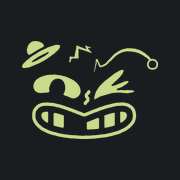
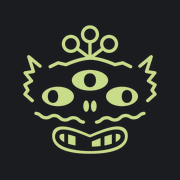
Replace Garbo with the new three-eyed drawing
New mask in art/garbo.png, new favicons and home-screen icons, and a
hand-drawn 40×30 DMD bitmap that winks his left eye.

Claude-Session: https://claude.ai/code/session_01UsLQRnPeR31dTeQKGYy7NB

Changed region(s): [[0.1111, 0.1389, 0.8889, 0.8611]]

diff --git a/index.html b/index.html
@@ -385,10 +385,10 @@ h1 .fx > .fx-t { color: var(--lime); -webkit-text-stroke: 0; }
 @media (prefers-reduced-motion: reduce) { .dmd-frame.abduct { animation: none; } }
 /* Garbo's signature in the footer: the owner's drawing, recoloured through a mask */
 .garbo-sig { display: flex; width: fit-content; align-items: center; gap: 16px; background: var(--bg); padding: 6px 10px 6px 0; }
-.garbo-art { flex: none; width: 92px; aspect-ratio: 754 / 562; background: currentColor; -webkit-mask: url("art/garbo.png") center / contain no-repeat; mask: url("art/garbo.png") center / contain no-repeat; }
+.garbo-art { flex: none; width: 76px; aspect-ratio: 1287 / 1240; background: currentColor; -webkit-mask: url("art/garbo.png") center / contain no-repeat; mask: url("art/garbo.png") center / contain no-repeat; }
 /* Garbo says: his drawing on the left, the line in a speech bubble pointing at him */
 .says { display: flex; align-items: center; gap: 44px; margin: 0 0 34px; }
-.says > .garbo-art { width: clamp(84px, 11vw, 130px); color: var(--lime); flex: none; }
+.says > .garbo-art { width: clamp(76px, 9vw, 112px); color: var(--lime); flex: none; }
 .thesis.bubble { position: relative; flex: 1; margin: 0; border: 0; background: none; padding: 26px 34px 30px; transform: rotate(-0.6deg); z-index: 0; }
 /* hand-drawn bubble: a wobbly outline with a cut-paper shadow that "boils" between two drawings */
 .bub { position: absolute; z-index: -1; overflow: visible; pointer-events: none; filter: drop-shadow(6px 7px 0 #4d5a34); }
@@ -405,7 +405,7 @@ h1 .fx > .fx-t { color: var(--lime); -webkit-text-stroke: 0; }
 @keyframes boil-b { 0% { visibility: hidden; } 50% { visibility: visible; } }
 @media (max-width: 600px) {
   .says { flex-direction: column-reverse; align-items: flex-start; gap: 30px; }
-  .says > .garbo-art { width: 86px; margin-left: 18px; }
+  .says > .garbo-art { width: 78px; margin-left: 22px; }
   .bub-left { display: none; } .bub-bottom { display: block; }
   .bub path { stroke-width: 2px; }
   .thesis.bubble { padding: 26px 26px 30px; transform: none; text-align: center; text-wrap: balance; font-size: 15px; line-height: 1.6; }
@@ -578,7 +578,7 @@ ol.plan li::before { color: var(--fg-dim); }
     <a class="gl-cta" href="#glossary"><span class="mono">Pinball glossary</span><span>What a VUK, a cradle or a playfield multiplier is, in plain language.</span><span class="arr" aria-hidden="true">→</span></a>
     <p>Venue lineups come from <a href="https://pinballmap.com" target="_blank" rel="noopener">Pinball Map</a>, licensed CC BY-SA 4.0. Each venue page links to that venue’s own Pinball Map listing, which is the place to check hours and location. Community tips are summarized from <a href="https://app.matchplay.events/opdb/entries/G4do5/pintips" target="_blank" rel="noopener">PinTips on Match Play</a>. Strategy draws on Kineticist tutorials, The Pinball Primer, Pinball Rulesheets and the Tilt Forums archive; each machine page links its sources.</p>
     <p>Machine reports come from players using the guide, are anonymous, and may already be out of date. Not affiliated with any venue or operator.</p>
-    <p class="garbo-sig"><span class="garbo-art" role="img" aria-label="Garbo, winking"></span><span>Field notes of <b>Garbo</b>, a visitor who fell for pinball. Translated by <b>SAPO Studios</b>.</span></p>
+    <p class="garbo-sig"><span class="garbo-art" role="img" aria-label="Garbo"></span><span>Field notes of <b>Garbo</b>, a visitor who fell for pinball. Translated by <b>SAPO Studios</b>.</span></p>
   </div>
 </footer>
 
@@ -3017,8 +3017,7 @@ const F = {
   "\uE00A":"00100 01010 00100 01110 10101 00100 01010", "\uE00B":"11011 10001 00100 01110 00100 10001 11011"
 };
 /* Garbo, from the owner's drawing, redrawn dot by dot (56 x 30) with an open-eye and a wink frame. */
-const GARBO = {"open":["00000001110000000000000000000000000000000000000000000000","00000011111001110000000000010000000000000000000000000000","00000011111111110000000010100000000000000000000000000000","00000011111111100000000111000000000011111110000000000000","00000011111100000000011010000000011100000001110000000000","00001111110000000000111000000001100000000000001000000000","00111111000000000000110000000010000000000000000100000000","00111100000000000001000000000100000000000000000011100000","00000000000000000000000000000100000000000000000100010000","00000000000000000000000000001000000000000000000100010000","00000000000000000000000000000000000000000000000100010000","00000000001111111100000000000000000111111110000011100000","00000000011111111110000000000000001111111111000000000000","00000000111110011111000000000000011111001111100000000000","00000001111000000111100001000000111100000011110000000000","00000001110000000011100000100000111000000001110000000000","00000001110000000011100001000000111000000001110000000000","00000001100000000001100000100000110000000000110000000000","00000000000000000000000001000000000000000000000000000000","00000000000000000000000000000000000000000000000000000000","00000000111110000000000000000000000000000011110000000000","00000001000001111111111000000000111111111100001000000000","00000010000000000000000111111111000000000000000100000000","00000010001100111100000000000000000001111001100100000000","00000010001100111100000000000001111001111001100100000000","00000010001100111100000000000001111001111001100100000000","00000001001100111100000000000001111001111001101000000000","00000000100000000000000000000000000000000000010000000000","00000000011111111111111111111111111111111111100000000000","00000000000000000000000000000000000000000000000000000000"],
-  "wink":["00000001110000000000000000000000000000000000000000000000","00000011111001110000000000010000000000000000000000000000","00000011111111110000000010100000000000000000000000000000","00000011111111100000000111000000000011111110000000000000","00000011111100000000011010000000011100000001110000000000","00001111110000000000111000000001100000000000001000000000","00111111000000000000110000000010000000000000000100000000","00111100000000000001000000000100000000000000000011100000","00000000000000000000000000000100000000000000000100010000","00000000000000000000000000001000000000000000000100010000","00000000000000000000000000000000000000000000111100010000","00000000001111111100000000000000000000000011110011100000","00000000011111111110000000000000000000001111000000000000","00000000111110011111000000000000000000011100000000000000","00000001111000000111100001000000000001111000111000000000","00000001110000000011100000100000000011111111111000000000","00000001110000000011100001000000001111111111000000000000","00000001100000000001100000100000111111111111100000000000","00000000000000000000000001000001110111111111110000000000","00000000000000000000000000000000000000000000000000000000","00000000111110000000000000000000000000000011110000000000","00000001000001111111111000000000111111111100001000000000","00000010000000000000000111111111000000000000000100000000","00000010001100111100000000000000000001111001100100000000","00000010001100111100000000000001111001111001100100000000","00000010001100111100000000000001111001111001100100000000","00000001001100111100000000000001111001111001101000000000","00000000100000000000000000000000000000000000010000000000","00000000011111111111111111111111111111111111100000000000","00000000000000000000000000000000000000000000000000000000"]};
+const GARBO = {"open":["0000000000000000001111000000000000000000","0000000000000000010000100000000000000000","0000000000011000010000100001100000000000","0000000000100100001111000010010000000000","0000000000100100000110000010010000000000","0000000000011010000110000101100000000000","0001000000000001100110011000000000001000","0010000000000111111111111110000000000100","0100000011111000000000000001111100000010","0010001100000000111111110000000011000100","0001000000000001111001111000000000001000","0010000000000001111001111000000000000100","0100000000000000111111110000000000000010","0010001111111100000000000011111111000100","0001011111001110000000000111001111101000","0010011111001110000000000111001111100100","0100011111001110000000000111001111100010","0000001111111100001001000011111111000000","0000000000000000001001000000000000000000","0001100011000110000000000110001100011000","0000011100111001110000111001110011100000","0000000000000000000000000000000000000000","0000000000111110000000000111110000000000","0000000001000001110000111000001000000000","0000000001000000001111000000001000000000","0000000001001101100000011011001000000000","0000000001001101100000011011001000000000","0000000001000000000000000000001000000000","0000000000100000000000000000010000000000","0000000000011111111111111111100000000000"],"wink":["0000000000000000001111000000000000000000","0000000000000000010000100000000000000000","0000000000011000010000100001100000000000","0000000000100100001111000010010000000000","0000000000100100000110000010010000000000","0000000000011010000110000101100000000000","0001000000000001100110011000000000001000","0010000000000111111111111110000000000100","0100000011111000000000000001111100000010","0010001100000000111111110000000011000100","0001000000000001111001111000000000001000","0010000000000001111001111000000000000100","0100000000000000111111110000000000000010","0010001111111100000000000000000000000100","0001011111001110000000000000000000001000","0010011111001110000000000100000000100100","0100011111001110000000000011111111000010","0000001111111100001001000000000000000000","0000000000000000001001000000000000000000","0001100011000110000000000110001100011000","0000011100111001110000111001110011100000","0000000000000000000000000000000000000000","0000000000111110000000000111110000000000","0000000001000001110000111000001000000000","0000000001000000001111000000001000000000","0000000001001101100000011011001000000000","0000000001001101100000011011001000000000","0000000001000000000000000000001000000000","0000000000100000000000000000010000000000","0000000000011111111111111111100000000000"]};
 const ALIEN = Array.from({ length: 12 }, (_, i) => String.fromCharCode(0xE000 + i));
 const glyph = ch => (F[ch] || F[" "]).split(" ");
 /* Width in dots of text drawn at scale s with a gap of g dots between letters. */

diff --git a/CLAUDE.md b/CLAUDE.md
@@ -3,7 +3,7 @@
 Read this first. It replaces the original conversation, which isn't available to you.
 
 ## What this is
-**Renamed 2026-11-12: the site is now "Garbo's Guide to ABQ Pinball"** (repo and URL still say PinPlan). Garbo is the owner's alien character; the theme is a field guide he left behind in Albuquerque (no Roswell references: the owner didn't want the app to seem based there). Night-sky look, Instrument Serif titles, dot-matrix accents. Lime is reserved for Garbo, the onboard display and tappable things. `garbo-says.md` holds the owner's own one-thing line per game (overrides `thesis`); `art/garbo.png` is his drawing used as a mask.
+**Renamed 2026-11-12: the site is now "Garbo's Guide to ABQ Pinball"** (repo and URL still say PinPlan). Garbo is the owner's alien character; the theme is a field guide he left behind in Albuquerque (no Roswell references: the owner didn't want the app to seem based there). Night-sky look, Instrument Serif titles, dot-matrix accents. Lime is reserved for Garbo, the onboard display and tappable things. `garbo-says.md` holds the owner's own one-thing line per game (overrides `thesis`); `art/garbo.png` is his drawing used as a mask (replaced 2026-11-12 with the owner's new three-eyed sketch; the earlier drawing must not come back). The DMD version is the hand-drawn 40×30 `GARBO` bitmap in `index.html`; he winks his left eye (the viewer's right).
 PinPlan is a free tournament strategy guide for pinball venues, starting in Albuquerque, NM.
 - Live site: https://abeytaadam.github.io/PinPlan/ (GitHub Pages, served from `main`, root folder)
 - Players reach it from a QR code posted at the venue.
@@ -20,7 +20,7 @@ Each machine page leads with **tournament** strategy, not general play:
 6. Rules in brief, then sources (every page links its sources)
 
 ## Files
-- `icons/`: Garbo's face in lime on night (#1b1c20), rendered from the owner's drawing (2026-11-12). `favicon-32.png` and `favicon-64.png` use a face-only crop (eyes, nose, grin) so it reads at tab size; `apple-touch-icon.png` (180), `icon-192.png` and `icon-512.png` show the whole drawing. `favicon.svg` is the old "pp" mark, no longer linked. `site.webmanifest` names the app for "Add to Home Screen".
+- `icons/`: Garbo's face in lime on night (#1b1c20), rendered from the owner's drawing (2026-11-12). `favicon-32.png` and `favicon-64.png` use a face-only crop (three eyes, nose, whiskers, grin) so it reads at tab size; `apple-touch-icon.png` (180), `icon-192.png` and `icon-512.png` show the whole drawing. `favicon.svg` is the old "pp" mark, no longer linked. `site.webmanifest` names the app for "Add to Home Screen".
 - `index.html`: the whole site in one file. The curated plans are the `MACHINES` array in the script near the bottom. Each entry has: id, code (DMD-style 2–4 letters), name, sort, mfr, year, variant, group (stern/chicago/classic/spooky/other), opdb (OPDB group id, e.g. G4do5), thesis, plan[], avoid[], venue {notes, copy, tied, scores}, tips [[category, votes, text]], tourney [] (tournament-only notes), rules, sources [[label, url]].
   - `venue.tied` holds [keyword, line] pairs. Each line only shows while a live Pinball Map condition note contains that keyword.
 - `index.html` also loads `lineup.json` if it exists. Live machines are matched to plans by OPDB group id, then by name. New machines get a basic "No plan yet" page. Curated machines that leave the floor stay reachable by link.
